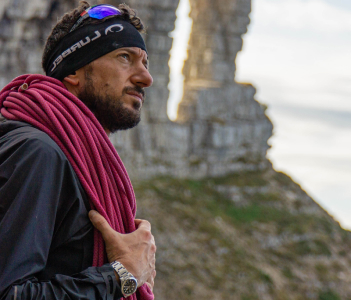
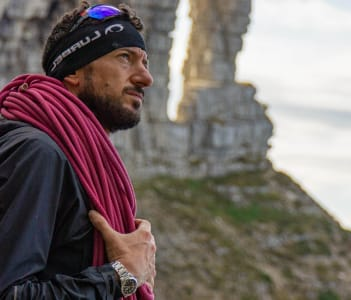
images optimization

diff --git a/components/layout/LayoutFooter.vue b/components/layout/LayoutFooter.vue
@@ -1,6 +1,6 @@
 <template>
   <footer
-    :style="{ backgroundImage: `url('/img/default/hero-footer.png')` }"
+    :style="{ backgroundImage: `url('/img/default/hero-footer.jpg')` }"
     class="hero hero-footer"
   >
     <div class="text-center text-false-white">
@@ -12,22 +12,48 @@
       <p class="text-2xl drop-shadow-text mt-2">LATITUDE X</p>
     </div>
     <nav class="m-auto">
-      <ul
-        class="text-center space-x-4 space-y-2 text-base text-false-white m-auto my-8"
-      >
-        <li class="inline-block">Diario dei viaggi</li>
-        <li class="inline-block">Destinazioni</li>
-        <li class="inline-block">Formazione</li>
-        <li class="inline-block">Chi siamo</li>
-        <li class="inline-block">Giulia Gabani</li>
-        <li class="inline-block">Francesco Sauro</li>
-        <li class="inline-block">Informativa privacy e cookie</li>
+      <ul class="text-center space-x-4 space-y-2 text-base text-false-white m-auto my-8">
+        <li class="inline-block">
+          <BaseLink :to="'/viaggi'" :isLink="false" class="drop-shadow-text hover:underline underline-offset-2">
+            Diario dei viaggi
+          </BaseLink>
+        </li>
+        <li class="inline-block">
+          <BaseLink :to="'/destinazioni'" :isLink="false" class="drop-shadow-text hover:underline underline-offset-2">
+            Destinazioni
+          </BaseLink>
+        </li>
+        <li class="inline-block">
+          <BaseLink :to="'/formazione'" :isLink="false" class="drop-shadow-text hover:underline underline-offset-2">
+            Formazione
+          </BaseLink>
+        </li>
+        <li class="inline-block">
+          <BaseLink :to="'/chi-siamo'" :isLink="false" class="drop-shadow-text hover:underline underline-offset-2">
+            Chi siamo
+          </BaseLink>
+        </li>
+        <li class="inline-block">
+          <BaseLink :to="'/giulia-gabani'" :isLink="false" class="drop-shadow-text hover:underline underline-offset-2">
+            Giulia Gabani
+          </BaseLink>
+        </li>
+        <li class="inline-block">
+          <BaseLink :to="'/francesco-sauro'" :isLink="false" class="drop-shadow-text hover:underline underline-offset-2">
+            Francesco Sauro
+          </BaseLink>
+        </li>
+        <li class="inline-block">
+          <BaseLink :to="'/privacy-cookie'" :isLink="false" class="drop-shadow-text hover:underline underline-offset-2">
+            Informativa privacy e cookie
+          </BaseLink>
+        </li>
       </ul>
     </nav>
   </footer>
 </template>
 
-<style scoped>
+<style scoped lang="scss">
 nav {
   max-width: 30rem;
 }

diff --git a/pages/destinazioni.vue b/pages/destinazioni.vue
@@ -1,7 +1,7 @@
 <template>
   <div>
     <div
-      :style="{ backgroundImage: `url('/img/default/hero-destinazioni.png')` }"
+      :style="{ backgroundImage: `url('/img/default/hero-destinazioni.jpg')` }"
       class="hero"
     />
     <section class="top-section wrapper lg:flex lg:space-x-4">

diff --git a/pages/index.vue b/pages/index.vue
@@ -1,7 +1,7 @@
 <template>
   <div>
     <header
-      :style="{ backgroundImage: `url('/img/default/hero.png')` }"
+      :style="{ backgroundImage: `url('/img/default/hero-header.jpg')` }"
       class="hero"
     >
       <div class="hero-wrapper flex items-center">

diff --git a/pages/viaggi.vue b/pages/viaggi.vue
@@ -1,7 +1,7 @@
 <template>
   <div>
     <div
-      :style="{ backgroundImage: `url('/img/default/hero-viaggi.png')` }"
+      :style="{ backgroundImage: `url('/img/default/hero-viaggi.jpg')` }"
       class="hero"
     />
     <section class="top-section wrapper">
